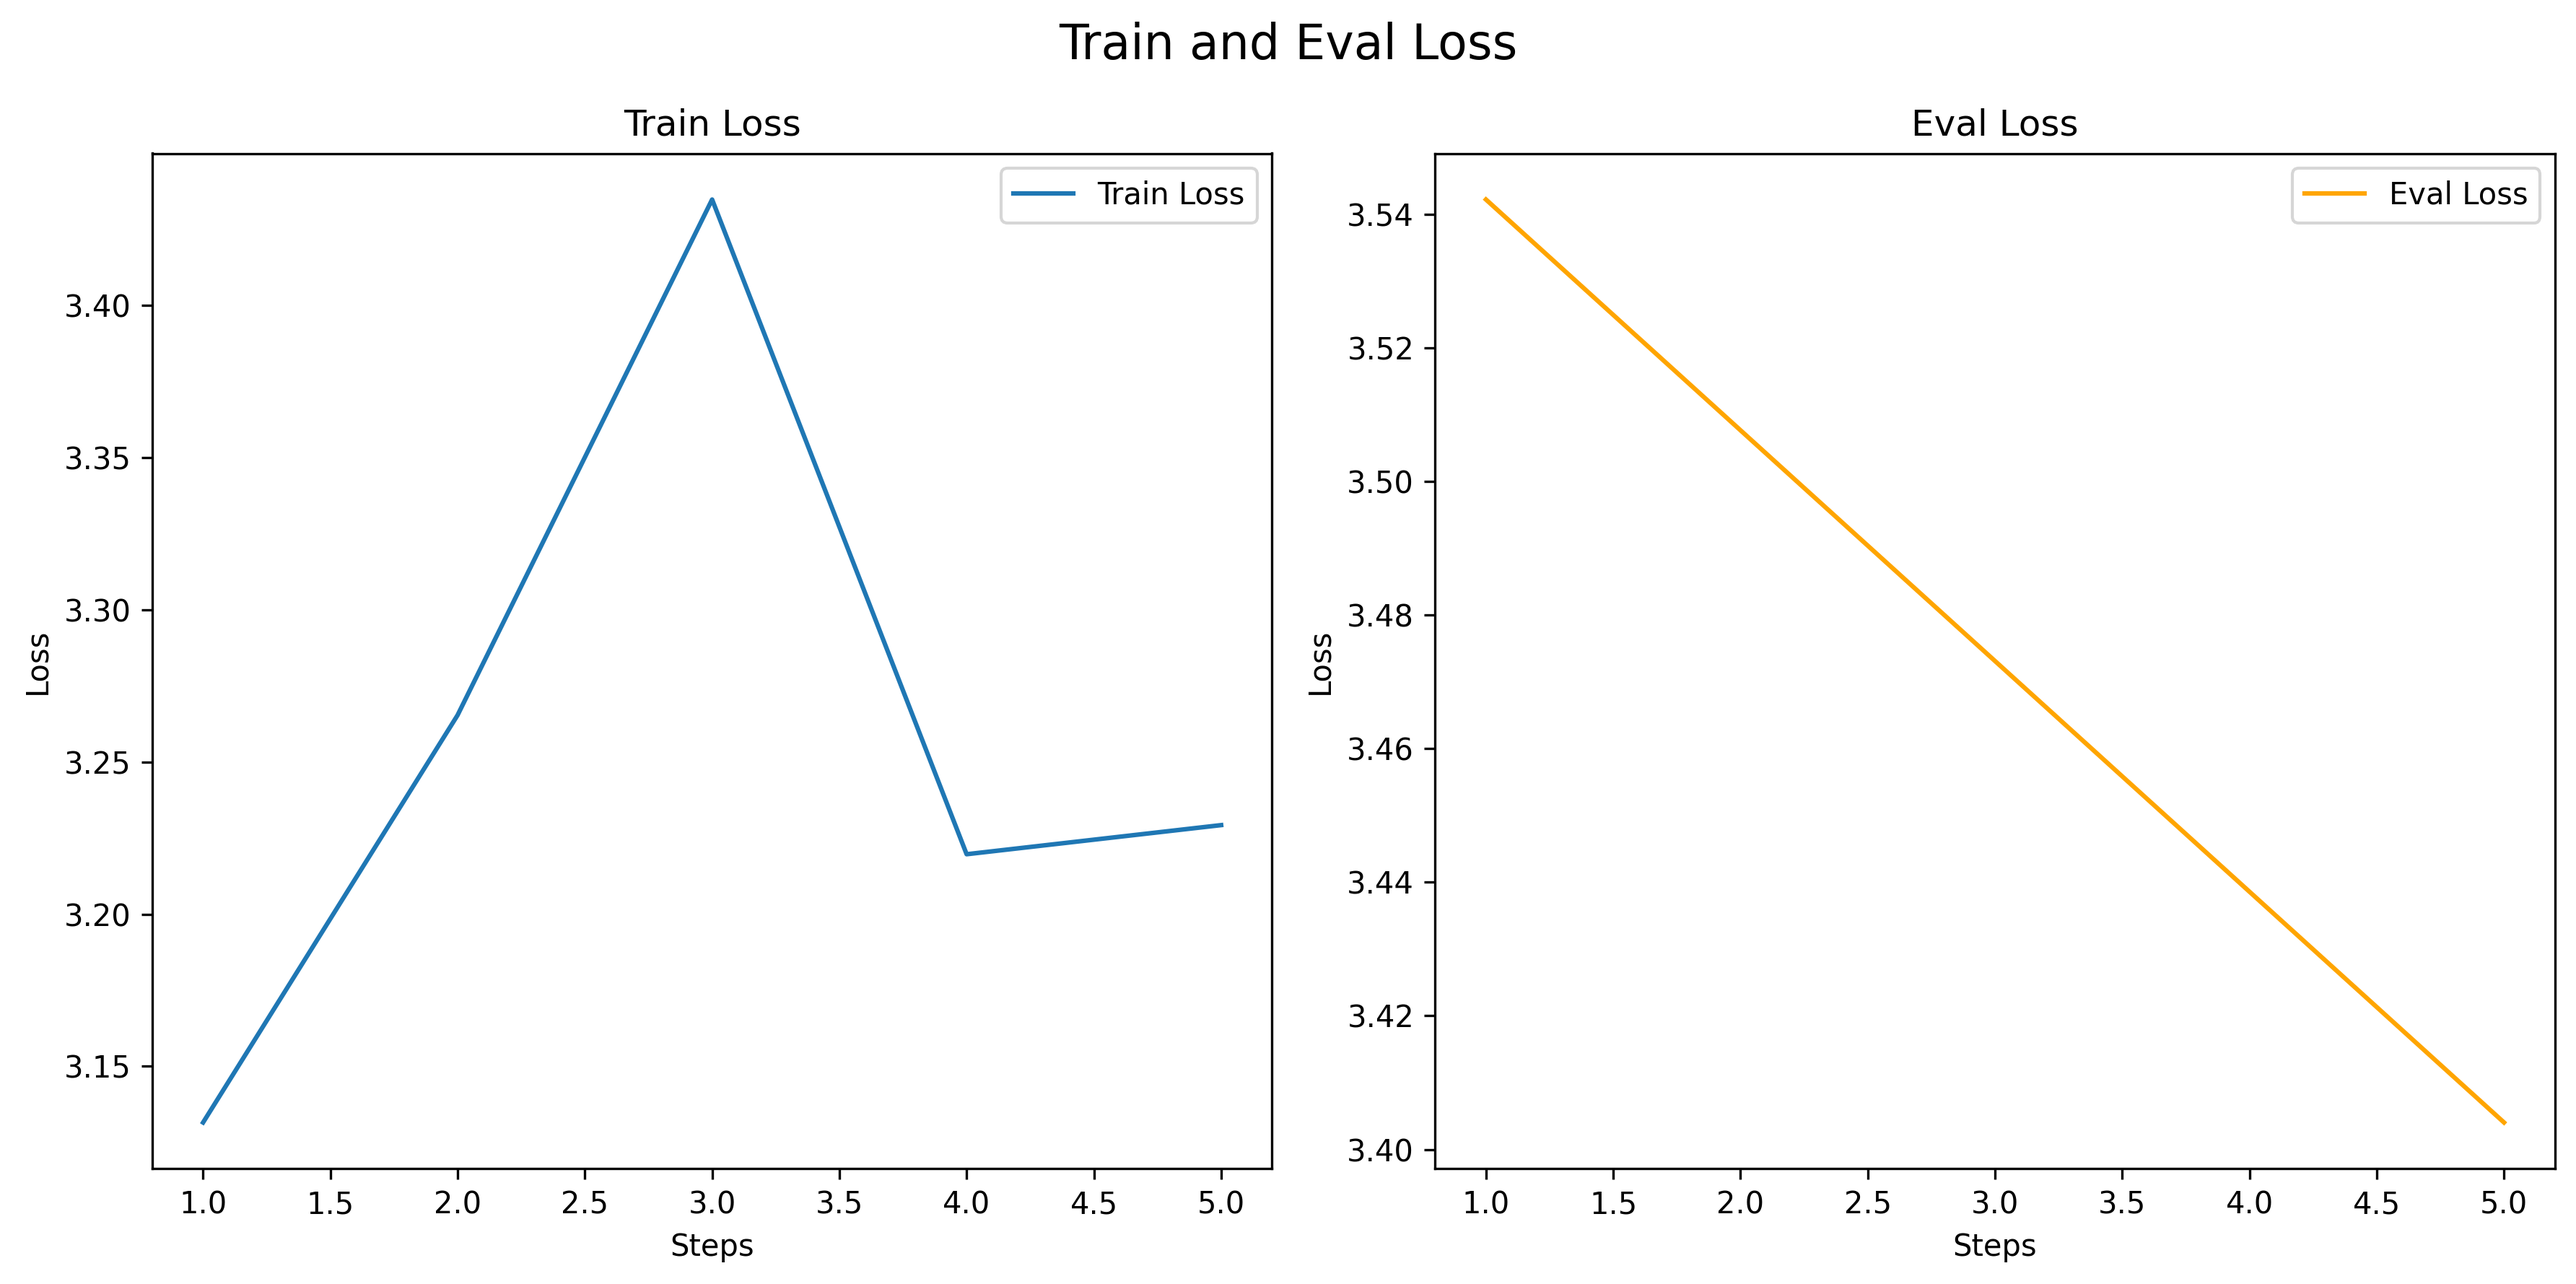
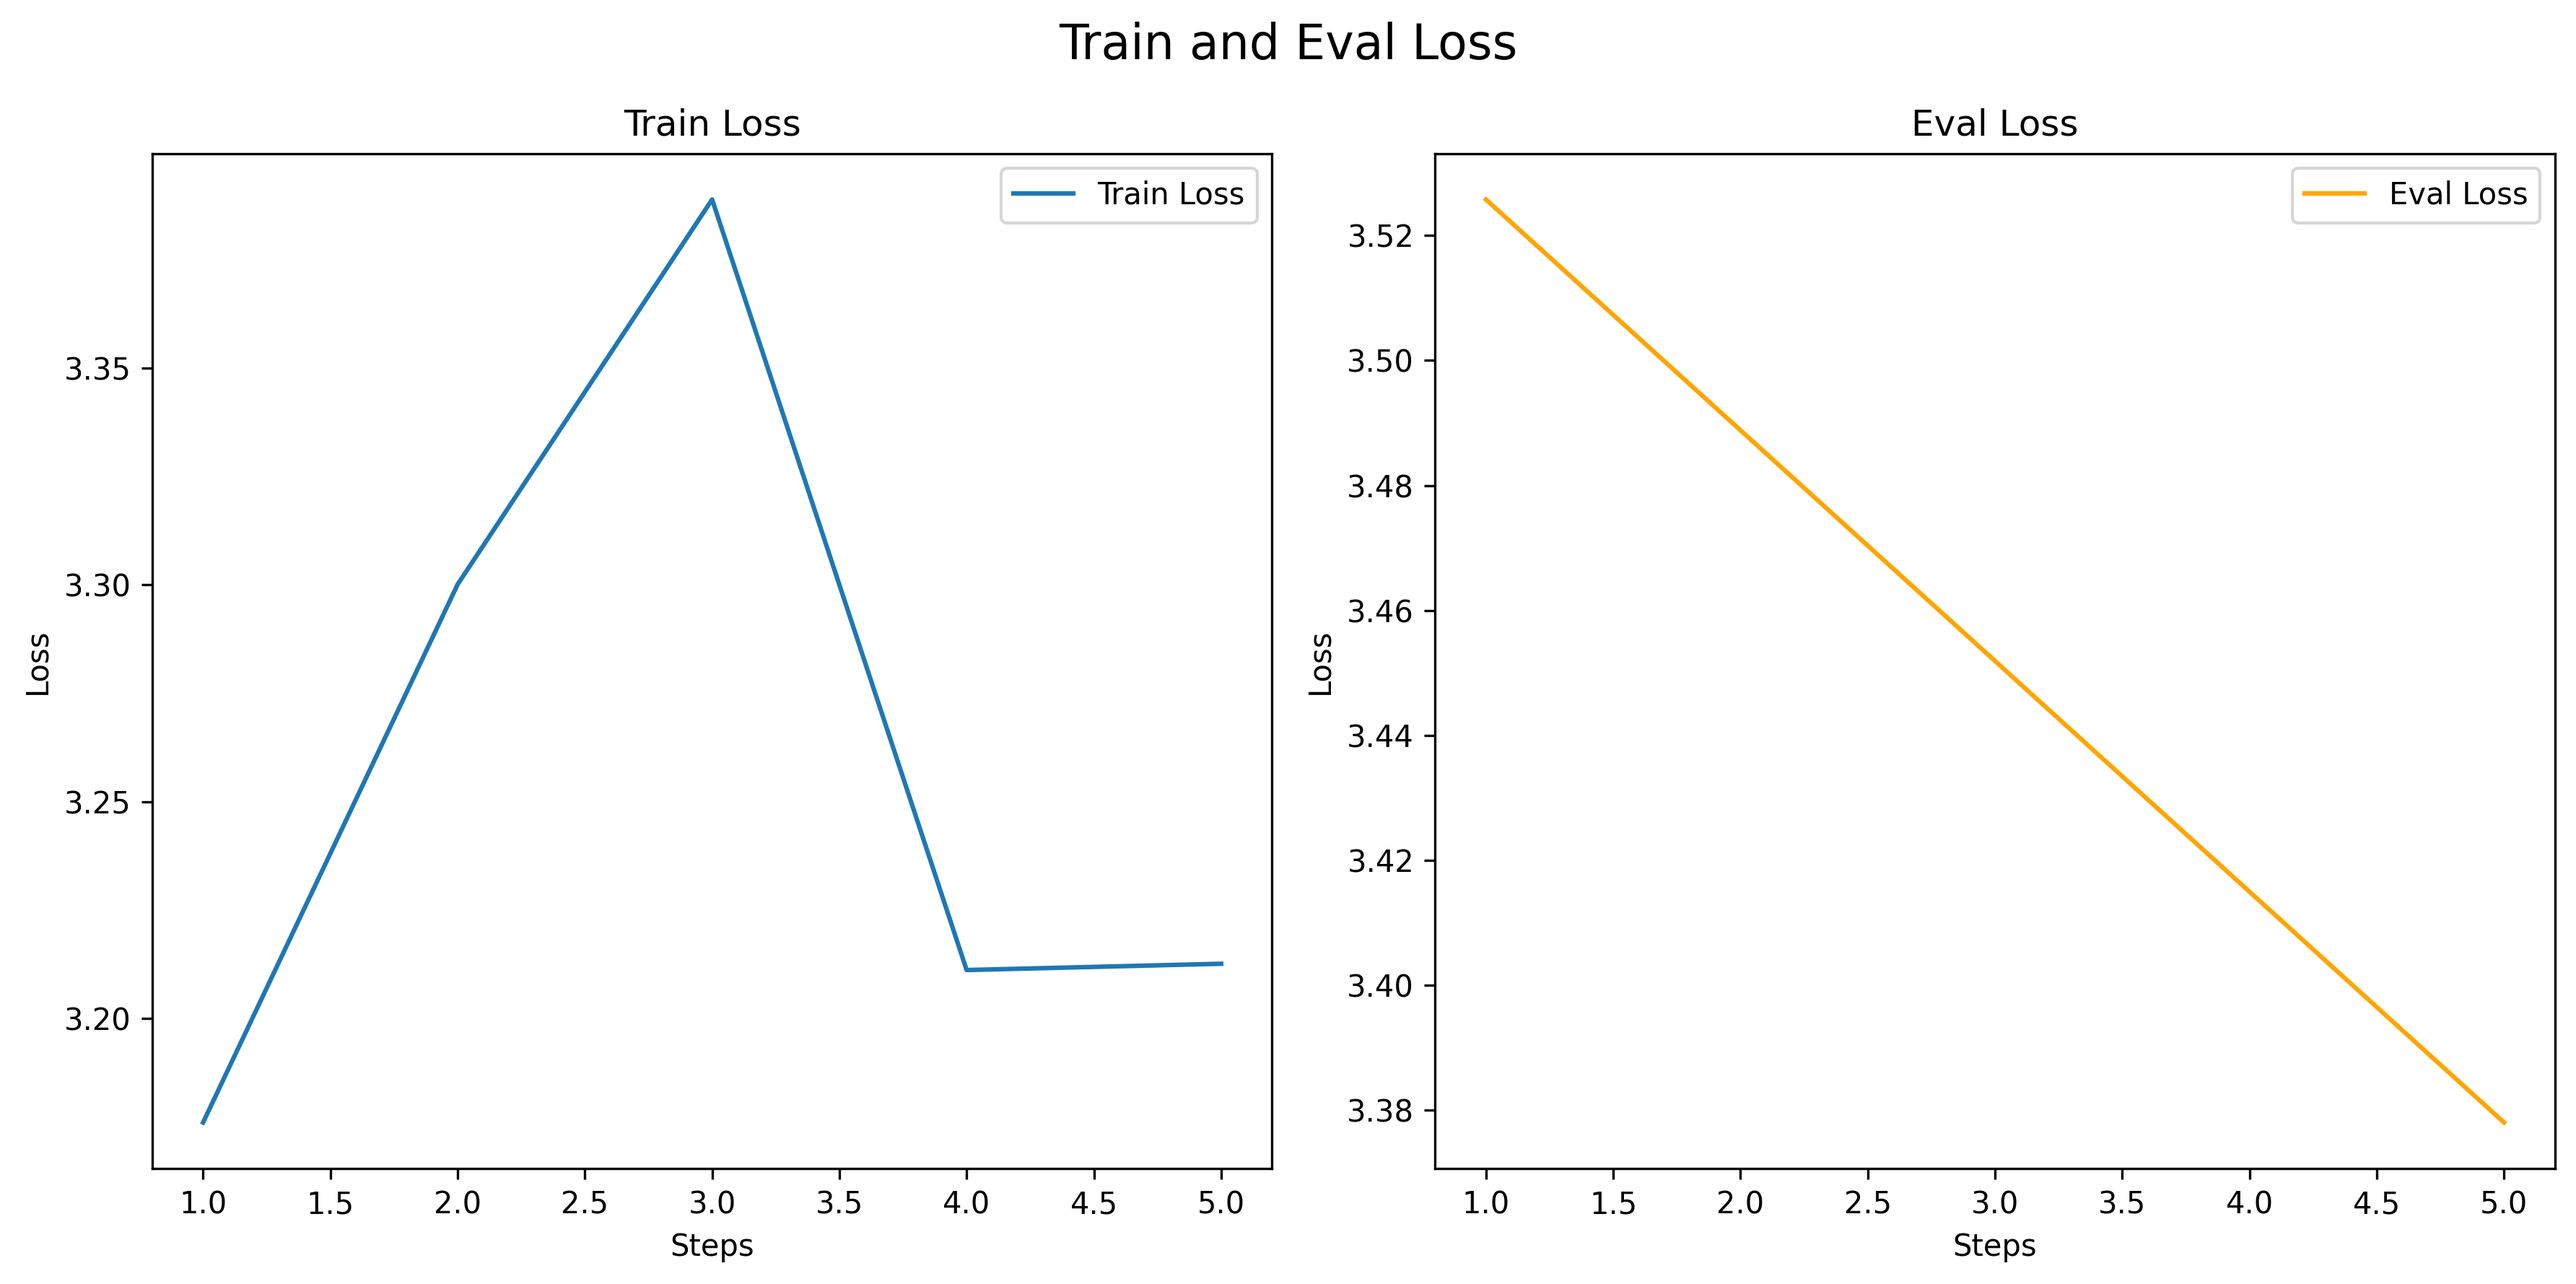
adding run results for 002

diff --git a/src/models/gemini_1_5/pipeline/eval_pipeline.py b/src/models/gemini_1_5/pipeline/eval_pipeline.py
@@ -141,5 +141,5 @@ def plot_and_log_metrics(tuning_job) -> None:
 
 
 if __name__ == '__main__':
-    tuning_job_id = "4577657336138563584"  # Replace with actual job ID
+    tuning_job_id = "1005775066052427776"  # Replace with actual job ID
     run(tuning_job_id)
